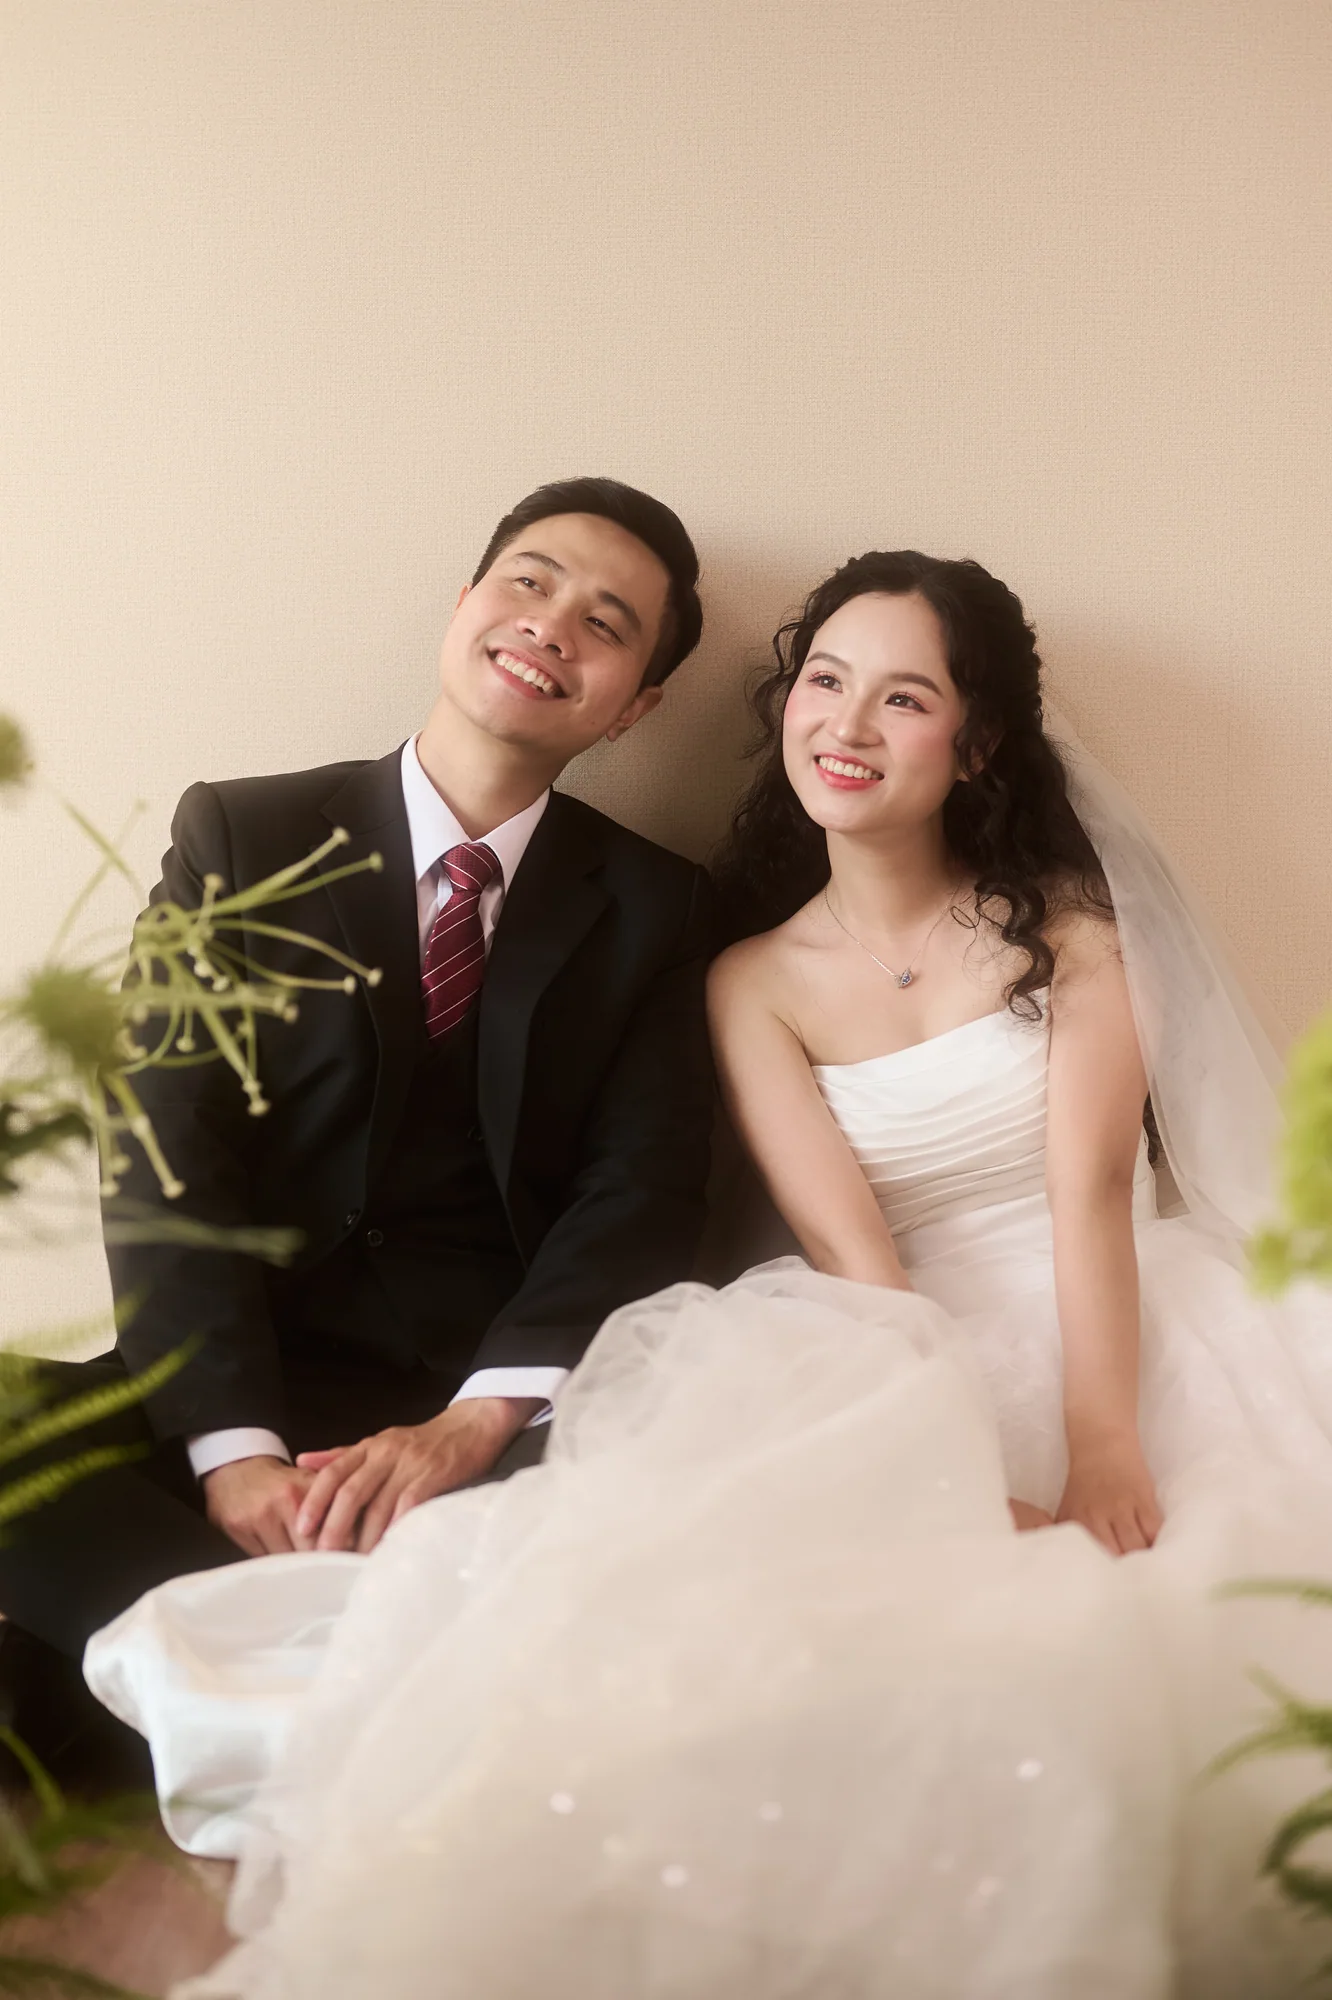
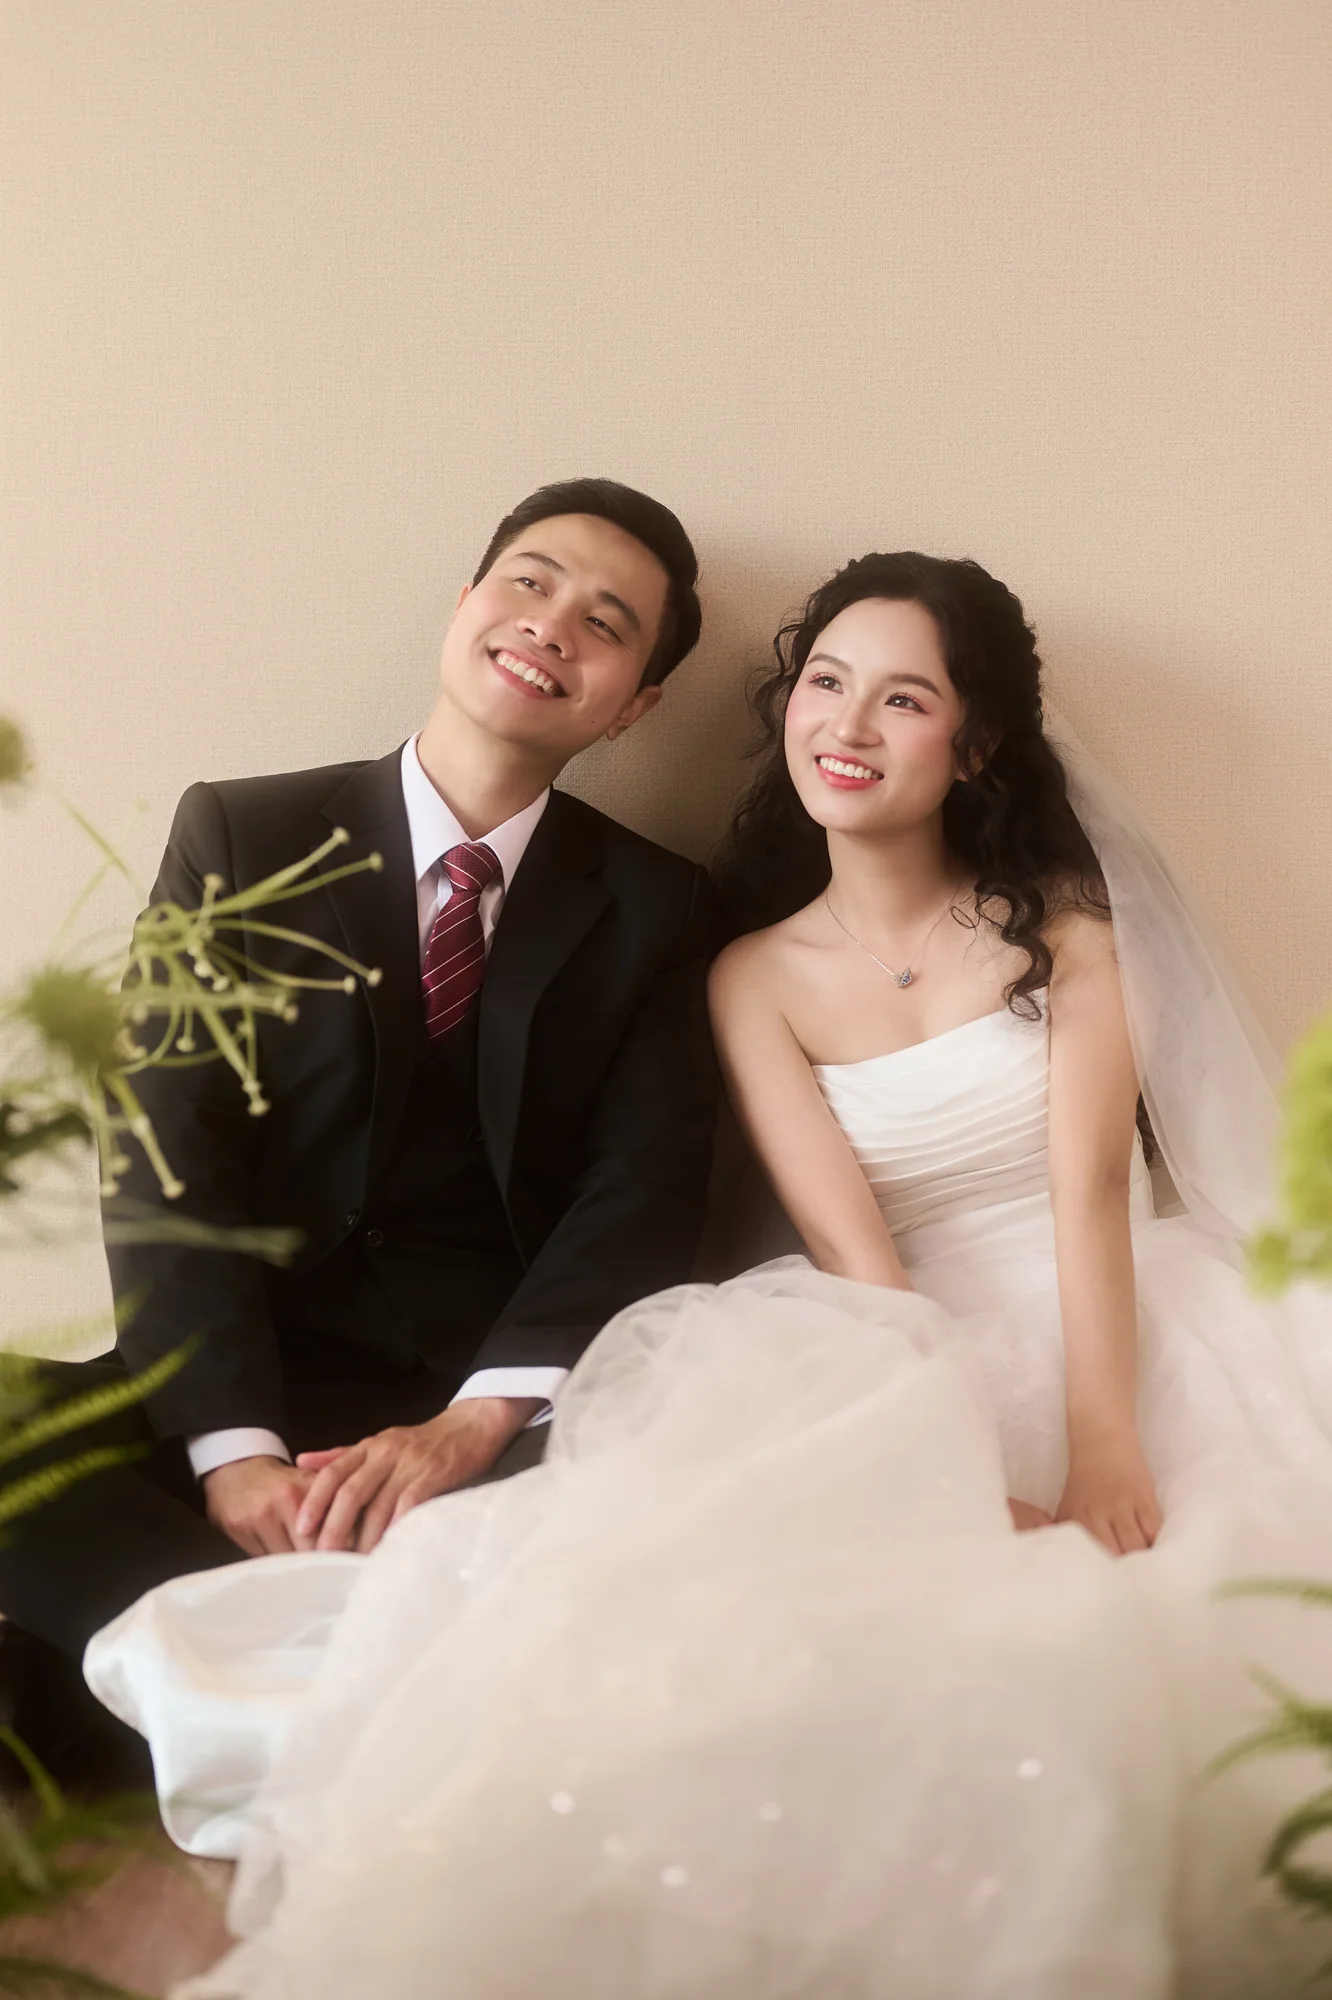
update images

diff --git a/tests/wedding.spec.ts b/tests/wedding.spec.ts
@@ -98,17 +98,56 @@ test("countdown stops at zero after the ceremony", async ({ page }) => {
   await expect(page.getByRole("heading", { name: "Ngày hạnh phúc đã đến" })).toBeVisible();
 });
 
-test("gallery opens, navigates, traps focus and closes with Escape", async ({ page }) => {
+test("gallery shows nine complete portraits with the feature centered, navigates and closes with Escape", async ({ page }, testInfo) => {
   await page.goto("/");
+  const photos = page.locator('#gallery button[aria-label^="Xem ảnh cưới"]');
+  await expect(photos).toHaveCount(9);
+  const expectedFiles = ["LMC_6385", "LMC_6558", "LMC_6853", "LMC_0464", "LMC_9512", "LMC_9969", "LMC_8281", "LMC_7745", "LMC_8611"];
+  const imageSources = await photos.locator("img").evaluateAll(images => images.map(image => new URL((image as HTMLImageElement).src).searchParams.get("url")));
+  for (const [index, file] of expectedFiles.entries()) {
+    expect(imageSources[index]).toMatch(new RegExp(`^/media/images/${file}\\.webp\\?v=[a-f0-9]{12}$`));
+  }
+  expect(await page.locator("#hero img").evaluate(image => new URL((image as HTMLImageElement).src).searchParams.get("url"))).toMatch(/^\/media\/images\/LMC_0129\.webp\?v=[a-f0-9]{12}$/);
+  for (const width of testInfo.project.name === "mobile" ? [320, 390, 768] : [1024, 1440]) {
+    await page.setViewportSize({ width, height: 1000 });
+    const cards = await photos.evaluateAll(elements => elements.map(element => {
+      const { x, y, width, height } = element.getBoundingClientRect();
+      return { x, y, width, height };
+    }));
+    for (const card of cards) {
+      expect(card.width).toBeCloseTo(cards[0].width, 0);
+      expect(card.height / card.width).toBeCloseTo(1.5, 2);
+    }
+    expect(cards[0].y).toBeCloseTo(cards[1].y, 0);
+    if (width >= 1024) {
+      expect(cards[2].y).toBeCloseTo(cards[1].y, 0);
+      expect(cards[1].x + cards[1].width / 2).toBeCloseTo(width / 2, 0);
+      expect(cards[0].x).toBeLessThan(cards[1].x);
+      expect(cards[2].x).toBeGreaterThan(cards[1].x);
+    } else {
+      expect(cards[8].x + cards[8].width / 2).toBeCloseTo(width / 2, 0);
+    }
+    expect(await page.evaluate(() => document.documentElement.scrollWidth > innerWidth)).toBe(false);
+  }
+  await page.setViewportSize(testInfo.project.name === "mobile" ? { width: 390, height: 844 } : { width: 1440, height: 1000 });
+  for (const photo of await photos.all()) await photo.scrollIntoViewIfNeeded();
+  await expect.poll(() => photos.locator("img").evaluateAll(images => images.every(image => (image as HTMLImageElement).complete && (image as HTMLImageElement).naturalWidth > 0))).toBe(true);
+  await photos.nth(1).scrollIntoViewIfNeeded();
+  await page.screenshot({ path: `.local/qa/${testInfo.project.name}-new-gallery.png` });
   const opener = page.getByRole("button", { name: /^Xem ảnh cưới 1:/ });
   await opener.click();
   const dialog = page.getByRole("dialog");
   await expect(dialog).toBeVisible();
-  await expect(dialog).toContainText("1 / 6");
+  await expect(dialog).toContainText("1 / 9");
   await page.getByRole("button", { name: "Ảnh tiếp theo" }).click();
-  await expect(dialog).toContainText("2 / 6");
+  await expect(dialog).toContainText("2 / 9");
   await page.keyboard.press("ArrowLeft");
-  await expect(dialog).toContainText("1 / 6");
+  await expect(dialog).toContainText("1 / 9");
+  await page.keyboard.press("ArrowLeft");
+  await expect(dialog).toContainText("9 / 9");
+  await expect(dialog.locator('p[aria-live="polite"]')).toHaveText("9 / 9");
+  await page.keyboard.press("ArrowRight");
+  await expect(dialog).toContainText("1 / 9");
   await page.keyboard.press("Shift+Tab");
   expect(await dialog.evaluate(element => element.contains(document.activeElement))).toBe(true);
   await page.keyboard.press("Escape");

diff --git a/components/GallerySection.tsx b/components/GallerySection.tsx
@@ -4,7 +4,7 @@ import { useEffect, useRef, useState } from "react";
 import Image from "next/image";
 import { ChevronLeft, ChevronRight, Expand, X } from "lucide-react";
 import { SectionHeading } from "@/components/SectionHeading";
-import { weddingPhotos } from "@/lib/wedding";
+import { photoSrc, weddingPhotos } from "@/lib/wedding";
 
 export function GallerySection() {
   const [activeIndex, setActiveIndex] = useState<number | null>(null);
@@ -34,8 +34,8 @@ export function GallerySection() {
         <SectionHeading eyebrow="Những khung hình thương nhớ" title="Giữa muôn vàn khoảnh khắc, mình chọn có nhau" subtitle="Mai này khi nhìn lại, điều đẹp nhất trong mỗi khung hình vẫn là nụ cười của người bên cạnh." />
         <div className="grid grid-cols-2 gap-3 sm:gap-5 lg:grid-cols-3">
           {weddingPhotos.map((photo, index) => (
-            <button key={photo.file} type="button" aria-label={`Xem ảnh cưới ${index + 1}: ${photo.alt}`} onClick={() => setActiveIndex(index)} className="group relative block aspect-[3/4] w-full overflow-hidden bg-champagne text-white">
-              <Image src={`/media/images/${photo.file}.webp`} alt={photo.alt} fill sizes="(min-width: 1200px) 360px, (min-width: 1024px) 31vw, 47vw" className="object-cover transition-transform duration-700 group-hover:scale-[1.035] group-focus-visible:scale-[1.035]" loading="lazy" />
+            <button key={photo.file} type="button" aria-label={`Xem ảnh cưới ${index + 1}: ${photo.alt}`} onClick={() => setActiveIndex(index)} className="group relative block aspect-[2/3] w-full overflow-hidden bg-champagne text-white last:col-span-2 last:mx-auto last:w-[calc((100%_-_0.75rem)/2)] sm:last:w-[calc((100%_-_1.25rem)/2)] lg:last:col-span-1 lg:last:w-full">
+              <Image src={photoSrc(photo.file)} alt={photo.alt} fill sizes="(min-width: 1200px) 360px, (min-width: 1024px) 31vw, 47vw" className="object-cover transition-transform duration-700 group-hover:scale-[1.035] group-focus-visible:scale-[1.035]" loading="lazy" />
               <span aria-hidden="true" className="absolute bottom-3 right-3 flex h-8 w-8 items-center justify-center rounded-full border border-white/60 bg-charcoal/30 backdrop-blur-sm sm:bottom-4 sm:right-4"><Expand className="h-3.5 w-3.5" /></span>
             </button>
           ))}
@@ -49,7 +49,7 @@ export function GallerySection() {
         <button type="button" autoFocus aria-label="Đóng ảnh" onClick={() => setActiveIndex(null)} className="absolute right-3 top-3 z-10 flex h-12 w-12 items-center justify-center rounded-full bg-black/30 text-white hover:bg-black/60 sm:right-6 sm:top-6"><X aria-hidden="true" className="h-6 w-6" /></button>
         {active && <div className="pointer-events-none flex h-full w-full flex-col items-center justify-center gap-3 px-12 py-20 sm:px-20">
           <div className="relative min-h-0 w-full max-w-5xl flex-1">
-            <Image src={`/media/images/${active.file}.webp`} alt={active.alt} fill sizes="(min-width: 1200px) 1000px, 90vw" className="object-contain" />
+            <Image src={photoSrc(active.file)} alt={active.alt} fill sizes="(min-width: 1200px) 1000px, 90vw" className="object-contain" />
           </div>
           <p className="max-w-xl text-center text-xs leading-6 text-white/80" aria-live="polite">{(activeIndex ?? 0) + 1} / {weddingPhotos.length}</p>
         </div>}

diff --git a/lib/wedding.ts b/lib/wedding.ts
@@ -1,3 +1,5 @@
+import photoAssets from "@/lib/photo-assets.json";
+
 // All dates include the Vietnam UTC+7 offset, independently of server timezone.
 export const wedding = {
   groom: "Hoàng Long",
@@ -59,13 +61,20 @@ export const ceremonies = [
 ] as const;
 
 export const weddingPhotos = [
-  { file: "LMC_0464", alt: "Hoàng Long và Hà Thanh bên những đóa hoa trong bộ ảnh cưới" },
-  { file: "LMC_0129", alt: "Nụ cười hạnh phúc của Hoàng Long và Hà Thanh" },
+  { file: "LMC_6385", alt: "Hoàng Long và Hà Thanh bên khung cửa cao mang nét cổ điển" },
   { file: "LMC_6558", alt: "Cô dâu và chú rể trao nhau ánh nhìn bên khung cửa" },
-  { file: "LMC_8835", alt: "Hoàng Long và Hà Thanh trong tà áo dài và quân phục" },
-  { file: "LMC_0588", alt: "Khoảnh khắc dịu dàng bên nhau của cô dâu và chú rể" },
-  { file: "LMC_9845", alt: "Cô dâu nâng bó hoa bên chú rể trong ngày chụp ảnh cưới" }
+  { file: "LMC_6853", alt: "Hoàng Long và Hà Thanh dưới ô cửa vòm ngập ánh nắng" },
+  { file: "LMC_0464", alt: "Hoàng Long và Hà Thanh bên những đóa hoa trong bộ ảnh cưới" },
+  { file: "LMC_9512", alt: "Nụ cười hạnh phúc của cô dâu và chú rể trong khung hình sáng dịu" },
+  { file: "LMC_9969", alt: "Hoàng Long và Hà Thanh bên hoa trắng và ánh nắng ấm" },
+  { file: "LMC_8281", alt: "Cô dâu và chú rể sánh bước bên nhau trên đường Độc Lập" },
+  { file: "LMC_7745", alt: "Hoàng Long trong quân phục trao Hà Thanh ánh nhìn trìu mến" },
+  { file: "LMC_8611", alt: "Hoàng Long và Hà Thanh bên nhau dưới bầu trời xanh" }
 ] as const;
+
+export function photoSrc(file: keyof typeof photoAssets) {
+  return `/media/images/${file}.webp?v=${photoAssets[file].version}`;
+}
 
 export function directionsUrl(coordinates: string) {
   return `https://www.google.com/maps/dir/?api=1&destination=${encodeURIComponent(coordinates)}&travelmode=driving`;

diff --git a/components/HeroSection.tsx b/components/HeroSection.tsx
@@ -1,6 +1,6 @@
 import Image from "next/image";
 import { ArrowDown, ArrowUpRight, Heart } from "lucide-react";
-import { wedding } from "@/lib/wedding";
+import { photoSrc, wedding } from "@/lib/wedding";
 
 export function HeroSection() {
   return (
@@ -37,7 +37,7 @@ export function HeroSection() {
         <div className="relative mx-auto w-full max-w-[460px] px-3 pb-6 md:max-w-none">
           <div className="absolute inset-x-0 bottom-3 top-4 rounded-t-[48%] border border-gold/50" />
           <div className="relative aspect-[3/4] overflow-hidden rounded-t-[48%] bg-champagne">
-            <Image src="/media/images/LMC_0129.webp" alt="Hoàng Long và Hà Thanh rạng rỡ bên nhau trong bộ ảnh cưới" fill priority sizes="(min-width: 1200px) 480px, (min-width: 768px) 45vw, 90vw" className="object-cover" />
+            <Image src={photoSrc("LMC_0129")} alt="Hoàng Long và Hà Thanh rạng rỡ bên nhau trong bộ ảnh cưới" fill priority sizes="(min-width: 1200px) 480px, (min-width: 768px) 45vw, 90vw" className="object-cover" />
           </div>
           <div className="absolute bottom-0 left-1/2 flex -translate-x-1/2 items-center gap-3 whitespace-nowrap border border-gold/25 bg-ivory px-6 py-3 text-xs tracking-[0.16em]">
             <span>28 · 29</span><Heart aria-hidden="true" className="h-3.5 w-3.5 text-gold" /><span>11 · 2026</span>

diff --git a/app/layout.tsx b/app/layout.tsx
@@ -1,4 +1,5 @@
 import type { Metadata } from "next";
+import { photoSrc } from "@/lib/wedding";
 import "./fonts.css";
 import "./globals.css";
 
@@ -14,7 +15,7 @@ export const metadata: Metadata = {
     description,
     type: "website",
     locale: "vi_VN",
-    ...(process.env.NEXT_PUBLIC_SITE_URL ? { images: [{ url: "/media/images/LMC_0129.webp", width: 1332, height: 2000, alt: "Thiệp cưới Hoàng Long và Hà Thanh" }] } : {})
+    ...(process.env.NEXT_PUBLIC_SITE_URL ? { images: [{ url: photoSrc("LMC_0129"), width: 1332, height: 2000, alt: "Thiệp cưới Hoàng Long và Hà Thanh" }] } : {})
   },
   formatDetection: { telephone: false, email: false, address: false, date: false }
 };
